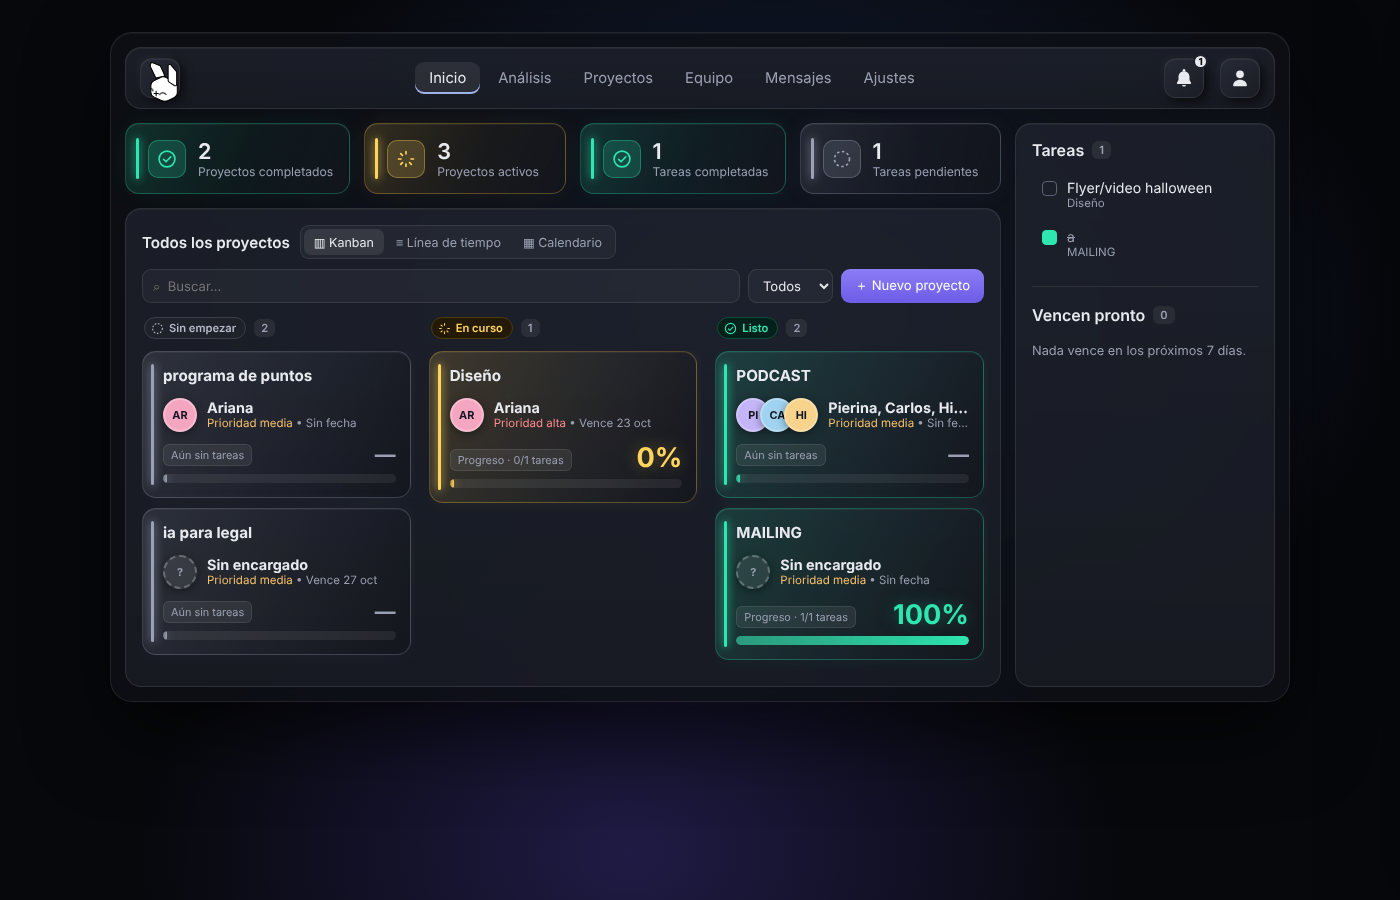
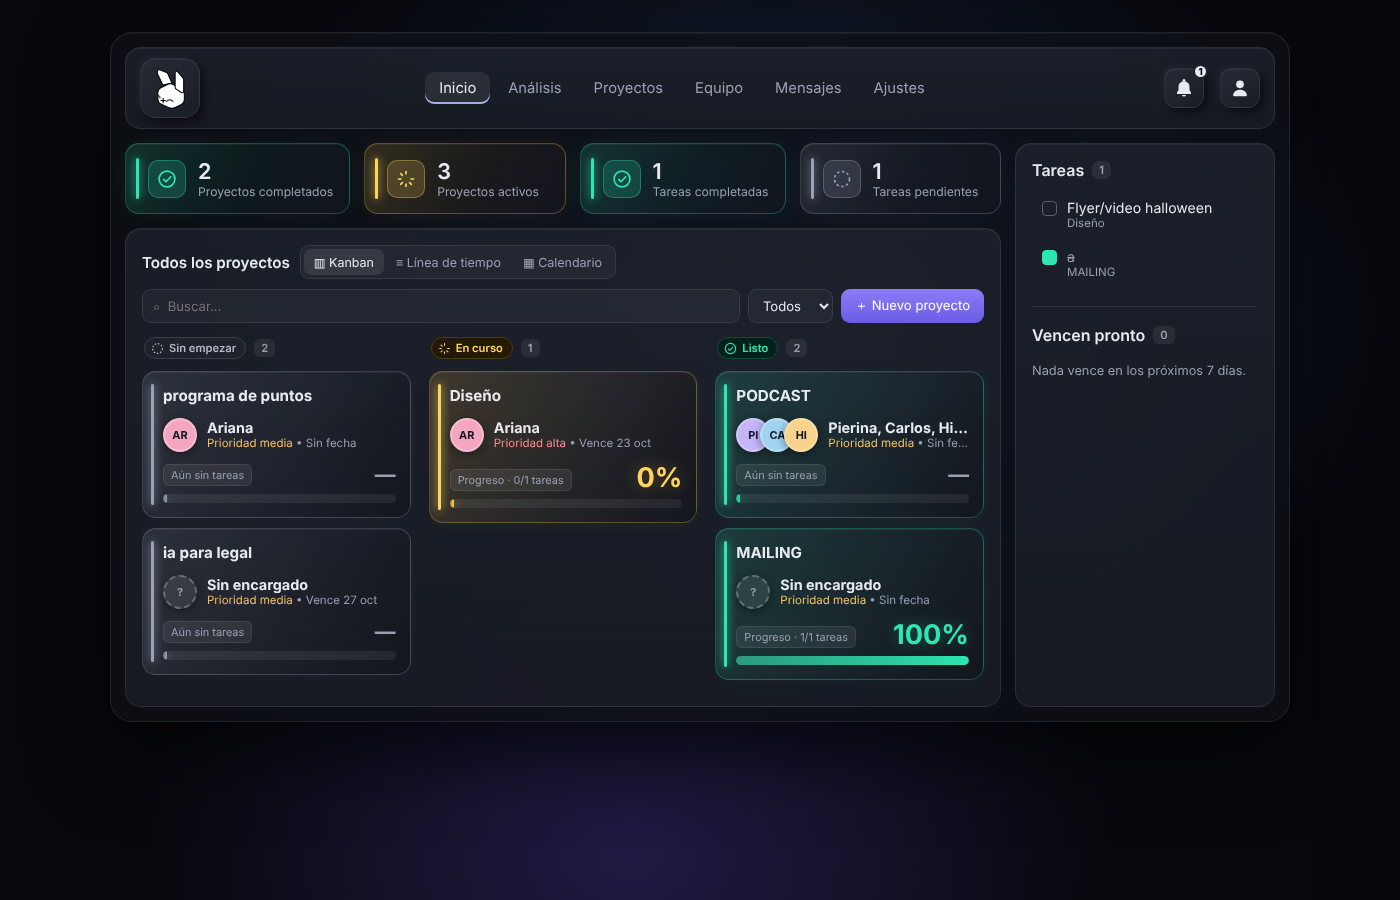
Panel: corregir tamaño del recuadro del conejo
Claude-Session: https://claude.ai/code/session_01L8QtHgV8HSYntBJ1ppQiSV

diff --git a/borradores/panel.html b/borradores/panel.html
@@ -33,7 +33,7 @@
   }
   /* Barra superior */
   .barra { display: flex; align-items: center; gap: 16px; padding: 10px 14px; margin-bottom: 14px; }
-  .logo-caja { width: 60px; height: 60px; border-radius: 16px; }
+  .boton-neo.logo-caja { width: 60px; height: 60px; border-radius: 16px; flex: none; }
   .logo-caja .logo { width: 44px !important; height: 44px !important; }
   .logo { width: 44px; height: 44px; flex: none; display: block; }
   .logo .ojos { transform-origin: 32px 51px; animation: parpadeo 5s infinite; }
